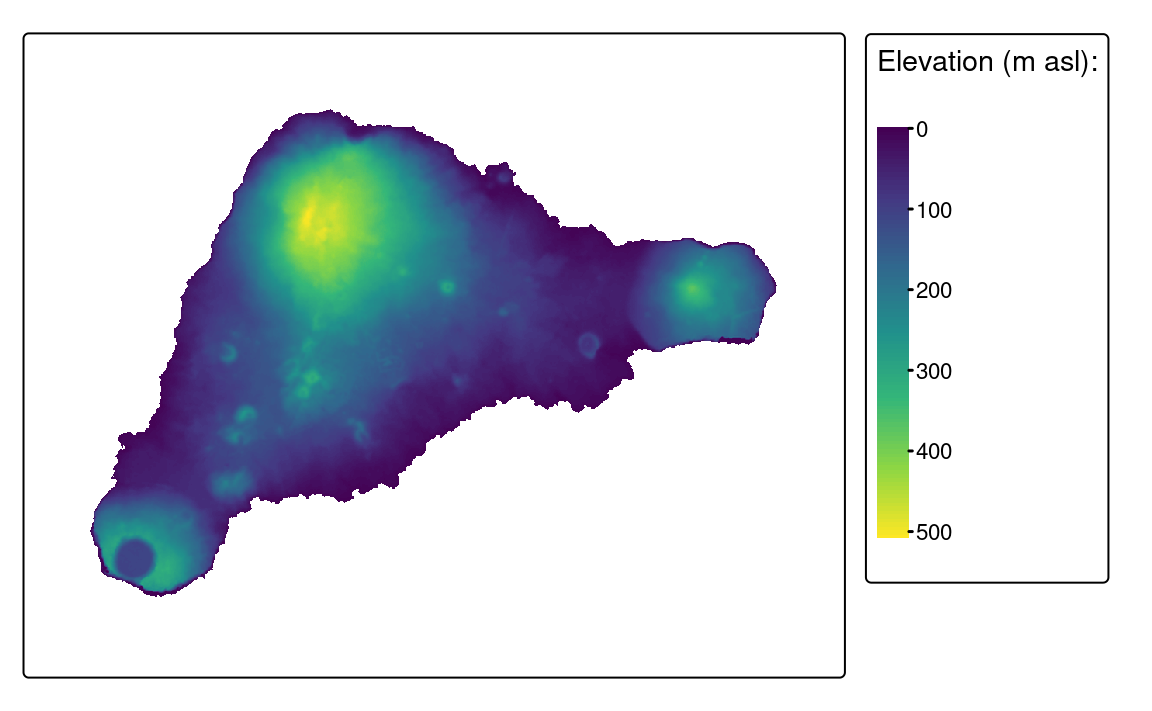
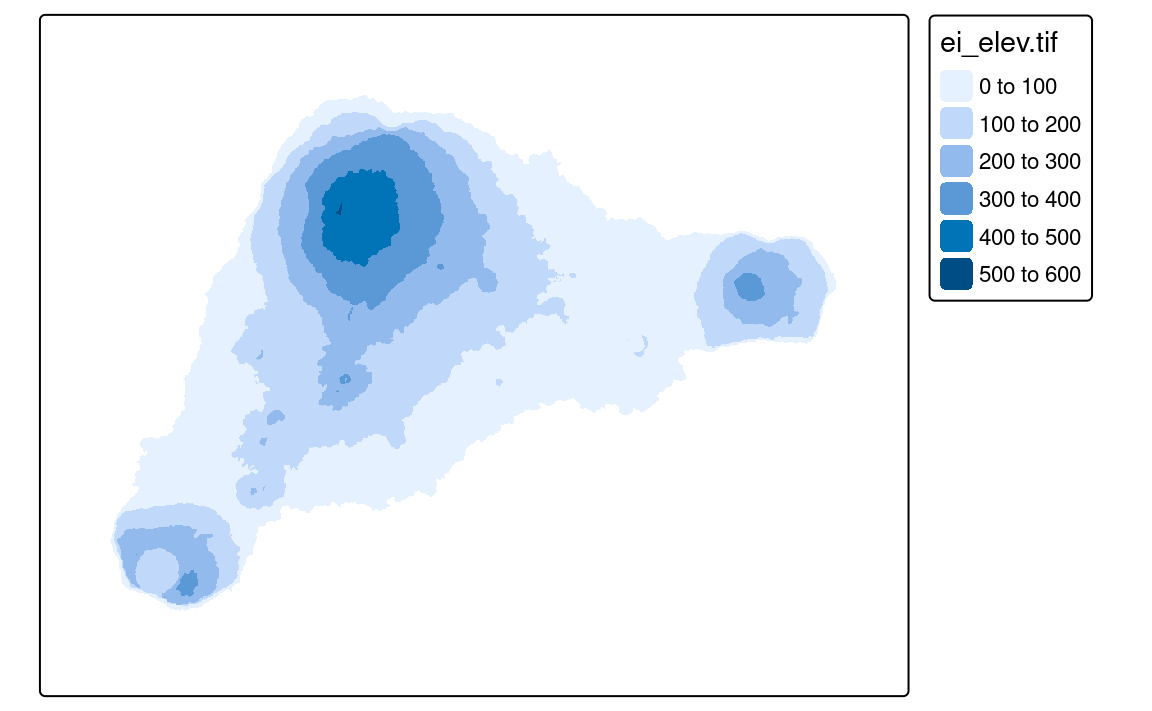
Deploy commit: cleans and updates a few parts b1c97d629e03a2010ea80d93bce5f0eef17c907c

Changed region(s): [[0.0312, 0.0, 0.9688, 0.8664], [0.0, 0.9283, 0.7812, 0.9902], [0.75, 0.8045, 0.9688, 0.8354]]

diff --git a/XX-layout.html b/XX-layout.html
@@ -346,15 +346,18 @@ gtag('config', 'G-ER2GMPEJNF', { 'anonymize_ip': true});
 <h2 id="toc-title">On this page</h2>
    
   <ul>
-<li>
-<a href="#sec-typography" id="toc-sec-typography" class="nav-link" data-scroll-target="#sec-typography"><span class="header-section-number">10.1</span> Typography</a>
+<li><a href="#colors-sec-lcolors" id="toc-colors-sec-lcolors" class="nav-link" data-scroll-target="#colors-sec-lcolors"><span class="header-section-number">10.1</span> Colors (#sec-lcolors)</a></li>
+  <li><a href="#frame-sec-lframe" id="toc-frame-sec-lframe" class="nav-link" data-scroll-target="#frame-sec-lframe"><span class="header-section-number">10.2</span> Frame (#sec-lframe)</a></li>
+  <li><a href="#margins-sec-lmargins" id="toc-margins-sec-lmargins" class="nav-link" data-scroll-target="#margins-sec-lmargins"><span class="header-section-number">10.3</span> Margins (#sec-lmargins)</a></li>
+  <li>
+<a href="#sec-ltypography" id="toc-sec-ltypography" class="nav-link" data-scroll-target="#sec-ltypography"><span class="header-section-number">10.4</span> Typography</a>
   <ul>
-<li><a href="#sec-fonts" id="toc-sec-fonts" class="nav-link" data-scroll-target="#sec-fonts"><span class="header-section-number">10.1.1</span> Font families and faces</a></li>
-  <li><a href="#sec-fonts-tmap" id="toc-sec-fonts-tmap" class="nav-link" data-scroll-target="#sec-fonts-tmap"><span class="header-section-number">10.1.2</span> Fonts available in <strong>tmap</strong></a></li>
-  <li><a href="#sec-fonts-on-maps" id="toc-sec-fonts-on-maps" class="nav-link" data-scroll-target="#sec-fonts-on-maps"><span class="header-section-number">10.1.3</span> Fonts on maps</a></li>
+<li><a href="#sec-fonts" id="toc-sec-fonts" class="nav-link" data-scroll-target="#sec-fonts"><span class="header-section-number">10.4.1</span> Font families and faces</a></li>
+  <li><a href="#sec-fonts-tmap" id="toc-sec-fonts-tmap" class="nav-link" data-scroll-target="#sec-fonts-tmap"><span class="header-section-number">10.4.2</span> Fonts available in <strong>tmap</strong></a></li>
+  <li><a href="#sec-fonts-on-maps" id="toc-sec-fonts-on-maps" class="nav-link" data-scroll-target="#sec-fonts-on-maps"><span class="header-section-number">10.4.3</span> Fonts on maps</a></li>
   </ul>
 </li>
-  <li><a href="#sec-layout-elements" id="toc-sec-layout-elements" class="nav-link" data-scroll-target="#sec-layout-elements"><span class="header-section-number">10.2</span> Layout elements</a></li>
+  <li><a href="#sec-llegend" id="toc-sec-llegend" class="nav-link" data-scroll-target="#sec-llegend"><span class="header-section-number">10.5</span> Legend</a></li>
   </ul><div class="toc-actions"><ul><li><a href="https://github.com/geocompx/tmap/edit/main/XX-layout.qmd" class="toc-action"><i class="bi bi-github"></i>Edit this page</a></li></ul></div></nav>
     </div>
 <!-- main -->
@@ -375,15 +378,22 @@ gtag('config', 'G-ER2GMPEJNF', { 'anonymize_ip': true});
   
 
 
-</header><section id="sec-typography" class="level2" data-number="10.1"><h2 data-number="10.1" class="anchored" data-anchor-id="sec-typography">
-<span class="header-section-number">10.1</span> Typography</h2>
+</header><!-- tm_layout --><!-- which features are the most important to explain? --><section id="colors-sec-lcolors" class="level2" data-number="10.1"><h2 data-number="10.1" class="anchored" data-anchor-id="colors-sec-lcolors">
+<span class="header-section-number">10.1</span> Colors (#sec-lcolors)</h2>
+<!-- e.g. background colors -->
+</section><section id="frame-sec-lframe" class="level2" data-number="10.2"><h2 data-number="10.2" class="anchored" data-anchor-id="frame-sec-lframe">
+<span class="header-section-number">10.2</span> Frame (#sec-lframe)</h2>
+</section><section id="margins-sec-lmargins" class="level2" data-number="10.3"><h2 data-number="10.3" class="anchored" data-anchor-id="margins-sec-lmargins">
+<span class="header-section-number">10.3</span> Margins (#sec-lmargins)</h2>
+</section><section id="sec-ltypography" class="level2" data-number="10.4"><h2 data-number="10.4" class="anchored" data-anchor-id="sec-ltypography">
+<span class="header-section-number">10.4</span> Typography</h2>
 <!-- Font faces and font families -->
-<p>The decision about the used fonts is often neglected when creating programmable plots and maps. Most often, the default fonts are used in these kinds of graphs. This, however, could be a missed opportunity. A lot of map information is expressed by text, including text labels (<a href="XX-layers.html#sec-text" class="quarto-xref"><span>Section 6.4</span></a>), legend labels, text in attribute layers (<a href="XX-attr-layers.html" class="quarto-xref"><span>Chapter 9</span></a>), or the map title (<a href="#sec-layout-elements" class="quarto-xref"><span>Section 10.2</span></a>). The used fonts impact the tone of the map <span class="citation" data-cites="guidero_typography_2017">(<a href="references.html#ref-guidero_typography_2017" role="doc-biblioref">Guidero 2017</a>)</span>, and their customization allows for a map to stand out from maps using default options.</p>
+<p>The decision about the used fonts is often neglected when creating programmable plots and maps. Most often, the default fonts are used in these kinds of graphs. This, however, could be a missed opportunity. A lot of map information is expressed by text, including text labels (<a href="XX-layers.html#sec-text" class="quarto-xref"><span>Section 6.4</span></a>), legend labels, text in attribute layers (<a href="XX-attr-layers.html" class="quarto-xref"><span>Chapter 9</span></a>), or the map title (<span class="quarto-unresolved-ref">?sec-layout-elements</span>). The used fonts impact the tone of the map <span class="citation" data-cites="guidero_typography_2017">(<a href="references.html#ref-guidero_typography_2017" role="doc-biblioref">Guidero 2017</a>)</span>, and their customization allows for a map to stand out from maps using default options.</p>
 <!-- role of font faces and font families: -->
 <!-- - highlight different levels/importance -->
 <p>As we mentioned above, many different map elements can be expressed or can use fonts. In theory, we are able to set different fonts to each of them. However, this could result in a confusing visual mix that would hinder our map information. Therefore, the decision on the used fonts should be taken after considering the main map message, expected map audience, other related graph styles, etc. In the following three sections, we explain font families and font faces, and give some overall tips on font selections, show how to define used fonts, and how to customize fonts on maps.</p>
-<section id="sec-fonts" class="level3" data-number="10.1.1"><h3 data-number="10.1.1" class="anchored" data-anchor-id="sec-fonts">
-<span class="header-section-number">10.1.1</span> Font families and faces</h3>
+<section id="sec-fonts" class="level3" data-number="10.4.1"><h3 data-number="10.4.1" class="anchored" data-anchor-id="sec-fonts">
+<span class="header-section-number">10.4.1</span> Font families and faces</h3>
 <div id="fig-fonts" class="quarto-layout-panel">
 <figure class="quarto-float quarto-float-fig figure"><div aria-describedby="fig-fonts-caption-0ceaefa1-69ba-4598-a22c-09a6ac19f8ca">
 <div class="quarto-layout-row">
@@ -418,8 +428,8 @@ Figure&nbsp;10.1: Basic font families, and font faces implemented in the tmap pa
 <p>Mixing the use of serif and sans serif fonts often works well for maps. However, a rule of thumb is not to mix more than two font families on one map. A sans serif font can be used to label cultural objects, while serif fonts to label physical features. Then, italics, for example, can be used to distinguish water areas. The role of bold font faces, together with increased font size, is to highlight the hierarchy of labels – larger, bold fonts indicate more prominent map features. Additionally, customizing the fonts’ colors can be helpful to distinguish different groups of map objects. <!-- cite - https://www.axismaps.com/guide/labeling --></p>
 <p>The decision on which fonts to use should also relates to the expected map look and feel. Each font family has a distinct personality (creates a “semantic effect”), which can affect how the map is perceived. <!-- references - https://gistbok.ucgis.org/bok-topics/typography --> Some fonts are more formal, some are less. Some fonts have a modern look, while others look more traditional. <!-- add examples --> Another important concern is personal taste or map branding. We should filter the decision about the used fonts based on our preferences or even our sense of beauty as it could create more personal and unique maps. We just need to remember about the readability of the fonts – they should not be too elaborate as it can hinder the main map message.</p>
 <!-- suggested fonts or references??? -->
-</section><section id="sec-fonts-tmap" class="level3" data-number="10.1.2"><h3 data-number="10.1.2" class="anchored" data-anchor-id="sec-fonts-tmap">
-<span class="header-section-number">10.1.2</span> Fonts available in <strong>tmap</strong>
+</section><section id="sec-fonts-tmap" class="level3" data-number="10.4.2"><h3 data-number="10.4.2" class="anchored" data-anchor-id="sec-fonts-tmap">
+<span class="header-section-number">10.4.2</span> Fonts available in <strong>tmap</strong>
 </h3>
 <p>Before we discuss how to set a font family and its face, it is important to highlight that a different set of fonts could exist for each operating system (and even each computer). Additionally, which fonts are available and how they are supported depends on the used <em>graphic device</em>. A graphic device is a place where a plot or map is rendered. The most commonly it is a some kind of a screen device, where we can see our plot or map directly after running the R code. Other graphic devices allow for saving plots or maps as files in various formats (e.g., <code>.png</code>, <code>.jpg</code>, <code>.pdf</code>). Therefore, it is possible to get different fonts on your map on the screen, and a (slightly) different one when saved to a file. Visit <code><a href="https://rdrr.io/r/grDevices/Devices.html">?Devices</a></code> or read the Graphic Devices chapter of <span class="citation" data-cites="peng2016exploratory">Peng (<a href="references.html#ref-peng2016exploratory" role="doc-biblioref">2016</a>)</span> to learn more about graphic devices.</p>
 <p>The <strong>tmap</strong> package has two mechanism to select a font family. The first one is by specifying on of three general font families: <code>"serif"</code>, <code>"sans"</code>, or <code>"monospace"</code>. It tries to match selected general font family with a font family existing on the operating system. <!-- https://github.com/r-lib/systemfonts#system-defaults --> For example, <code>"serif"</code> could the <code>"Times"</code> font family, <code>"sans"</code> – <code>"Helvetica"</code> or <code>"Arial"</code>, and <code>"monospace"</code> – <code>"Courier"</code> (<a href="#fig-fonts-1" class="quarto-xref">Figure&nbsp;<span>10.1 (a)</span></a>). The second mechanism allows to select a font family based on its name (e.g., <code>"Times"</code> or <code>"Palatino"</code>). Next, a member of the selected font families can be selected with one of the font faces: <code>"plain"</code>, <code>"italic"</code>, <code>"bold"</code>, and <code>"bold.italic"</code> (<a href="#fig-fonts-2" class="quarto-xref">Figure&nbsp;<span>10.1 (b)</span></a>).</p>
@@ -431,8 +441,8 @@ Figure&nbsp;10.1: Basic font families, and font faces implemented in the tmap pa
 </div>
 <p>Information on installing and debugging custom fonts can be found in <a href="https://yjunechoe.github.io/posts/2021-06-24-setting-up-and-debugging-custom-fonts/">a blog post</a> by June Choe and in the <strong>showtext</strong> package <span class="citation" data-cites="R-showtext">(<a href="references.html#ref-R-showtext" role="doc-biblioref">Qiu and See file AUTHORS for details. 2021</a>)</span> documentation.</p>
 <p>The next step is to either view or save the map. This also means that we need to carry over our fonts to the output window/file, which largely depends on the selected graphic device. In general, screen device or graphical raster output formats, such as PNG, JPEG, or TIFF, works well with custom fonts as they rasterize them during saving. In case of any problems with graphical raster outputs, it is possible to try alternative graphics devices implemented in the <strong>ragg</strong> package <span class="citation" data-cites="R-ragg">(<a href="references.html#ref-R-ragg" role="doc-biblioref">Pedersen and Shemanarev 2021</a>)</span>. On the other hand, graphical vector formats, such as PDF or SVG, could have some problems with saving maps containing custom fonts<a href="#fn1" class="footnote-ref" id="fnref1" role="doc-noteref"><sup>1</sup></a>. The PDF device in R, by default, adds metadata about the used fonts, but does not store them. When the PDF reader shows the document, it tries to locate the font on your computer, and use other fonts when the expected one does not exist. An alternative approach is called embedding, which adds a copy of each necessary font to the PDF file itself. Gladly, the creation of a PDF with proper fonts can be achieved in a few ways. Firstly, it could be worth trying some alternative graphic devices such as <code>cairo_pdf</code> or <code><a href="https://svglite.r-lib.org/reference/svglite.html">svglite::svglite</a></code>. The second option is to use the <strong>showtext</strong> package <span class="citation" data-cites="R-showtext">(<a href="references.html#ref-R-showtext" role="doc-biblioref">Qiu and See file AUTHORS for details. 2021</a>)</span>, which converts text into color-filled polygonal outlines for graphical vector formats. <!-- footnote: if/when the device argument is added to tmap_save, then mention saving to ragg/cairo_pdf --> Thirdly, the <strong>extrafont</strong> <span class="citation" data-cites="R-extrafont">(<a href="references.html#ref-R-extrafont" role="doc-biblioref">Chang 2014</a>)</span> package allows embedding the fonts in the PDF file, which makes PDFs properly displayed on computers that do not have the given font. <!-- ref to map_save!! --></p>
-</section><section id="sec-fonts-on-maps" class="level3" data-number="10.1.3"><h3 data-number="10.1.3" class="anchored" data-anchor-id="sec-fonts-on-maps">
-<span class="header-section-number">10.1.3</span> Fonts on maps</h3>
+</section><section id="sec-fonts-on-maps" class="level3" data-number="10.4.3"><h3 data-number="10.4.3" class="anchored" data-anchor-id="sec-fonts-on-maps">
+<span class="header-section-number">10.4.3</span> Fonts on maps</h3>
 <div class="cell" data-layout-align="center">
 <div class="sourceCode" id="cb2"><pre class="downlit sourceCode r code-with-copy"><code class="sourceCode R"><span><span class="kw"><a href="https://rdrr.io/r/base/library.html">library</a></span><span class="op">(</span><span class="va"><a href="https://github.com/r-tmap/tmap">tmap</a></span><span class="op">)</span></span>
 <span><span class="kw"><a href="https://rdrr.io/r/base/library.html">library</a></span><span class="op">(</span><span class="va"><a href="https://r-spatial.github.io/sf/">sf</a></span><span class="op">)</span></span>
@@ -493,8 +503,8 @@ Figure&nbsp;10.2: Examples of one font (font family and font face) used for all 
 </figcaption></figure>
 </div>
 <!-- The third way is to use a different *tmap style* - see section \@ref() for more details. -->
-</section></section><section id="sec-layout-elements" class="level2" data-number="10.2"><h2 data-number="10.2" class="anchored" data-anchor-id="sec-layout-elements">
-<span class="header-section-number">10.2</span> Layout elements</h2>
+</section></section><section id="sec-llegend" class="level2" data-number="10.5"><h2 data-number="10.5" class="anchored" data-anchor-id="sec-llegend">
+<span class="header-section-number">10.5</span> Legend</h2>
 
 
 <div id="refs" class="references csl-bib-body hanging-indent" data-entry-spacing="0" role="list" style="display: none">

diff --git a/XX-layers.html b/XX-layers.html
@@ -739,8 +739,7 @@ Figure&nbsp;6.4: Example of a map created with tm_lines().
 <p>Text labels are often an integral part of many maps. They can serve several functions, from naming features, indicating relations between them, or representing a given variable’s values. The main function for creating text labels is <code><a href="https://r-tmap.github.io/tmap/reference/tm_text.html">tm_text()</a></code>, which adds a label to each spatial feature (<a href="#fig-tmtext" class="quarto-xref">Figure&nbsp;<span>6.5</span></a>).</p>
 <div class="cell" data-layout-align="center">
 <div class="sourceCode" id="cb13"><pre class="downlit sourceCode r code-with-copy"><code class="sourceCode R"><span><span class="fu"><a href="https://r-tmap.github.io/tmap/reference/tm_shape.html">tm_shape</a></span><span class="op">(</span><span class="va">volcanos</span><span class="op">)</span> <span class="op">+</span></span>
-<span>  <span class="fu"><a href="https://r-tmap.github.io/tmap/reference/tm_text.html">tm_text</a></span><span class="op">(</span>text <span class="op">=</span> <span class="st">"name"</span>, size <span class="op">=</span> <span class="st">"elevation"</span><span class="op">)</span> <span class="op">+</span></span>
-<span>  <span class="fu"><a href="https://r-tmap.github.io/tmap/reference/tm_layout.html">tm_layout</a></span><span class="op">(</span>legend.outside <span class="op">=</span> <span class="cn">TRUE</span><span class="op">)</span></span></code><button title="Copy to Clipboard" class="code-copy-button"><i class="bi"></i></button></pre></div>
+<span>  <span class="fu"><a href="https://r-tmap.github.io/tmap/reference/tm_text.html">tm_text</a></span><span class="op">(</span>text <span class="op">=</span> <span class="st">"name"</span>, size <span class="op">=</span> <span class="st">"elevation"</span><span class="op">)</span></span></code><button title="Copy to Clipboard" class="code-copy-button"><i class="bi"></i></button></pre></div>
 <div class="cell-output-display">
 <div id="fig-tmtext" class="quarto-float quarto-figure quarto-figure-center anchored" data-fig-align="center">
 <figure class="quarto-float quarto-float-fig figure"><div aria-describedby="fig-tmtext-caption-0ceaefa1-69ba-4598-a22c-09a6ac19f8ca">
@@ -832,16 +831,15 @@ Figure&nbsp;6.5: Example of a map created with tm_text().
 <span><span class="va">ei_geomorphons</span> <span class="op">=</span> <span class="fu"><a href="https://r-spatial.github.io/stars/reference/read_stars.html">read_stars</a></span><span class="op">(</span><span class="st">"data/easter_island/ei_geomorphons.tif"</span><span class="op">)</span></span></code><button title="Copy to Clipboard" class="code-copy-button"><i class="bi"></i></button></pre></div>
 </div>
 <!-- Raster data intro -->
-<p>Visualization of raster data depends on the raster type (continuous or categorical), its resolution, and the number of layers. <a href="XX-options.html#fig-rasterdown" class="quarto-xref">Figure&nbsp;<span>16.1</span></a> shows two simple examples of continuous and categorical raster visualizations created with <code>tm_raster().</code> This function attempts to recognize the type of a given raster – when the input raster is continuous then the pretty style is used. However, the continuous scale (<code><a href="https://r-tmap.github.io/tmap/reference/tm_scale_continuous.html">tm_scale_continuous()</a></code>) often better represent phenomena that progressively vary in space (<a href="#fig-rastertype-1" class="quarto-xref">Figure&nbsp;<span>6.6 (a)</span></a>).</p>
+<p>Visualization of raster data depends on the raster type (continuous or categorical), its resolution, and the number of layers. <a href="XX-options.html#fig-rasterdown" class="quarto-xref">Figure&nbsp;<span>16.1</span></a> shows two simple examples of continuous and categorical raster visualizations created with <code>tm_raster().</code> This function attempts to recognize the type of a given raster – when the input raster is continuous then the pretty style is used (<a href="#fig-rastertype-1" class="quarto-xref">Figure&nbsp;<span>6.6 (a)</span></a>). <!-- However, the continuous scale (`tm_scale_continuous()`) often better represent phenomena that progressively vary in space  --></p>
 <div class="cell" data-layout-align="center">
 <div class="sourceCode" id="cb18"><pre class="downlit sourceCode r code-with-copy"><code class="sourceCode R"><span><span class="fu"><a href="https://r-tmap.github.io/tmap/reference/tm_shape.html">tm_shape</a></span><span class="op">(</span><span class="va">ei_elev</span><span class="op">)</span> <span class="op">+</span></span>
-<span>  <span class="fu"><a href="https://r-tmap.github.io/tmap/reference/tm_raster.html">tm_raster</a></span><span class="op">(</span>col.scale <span class="op">=</span> <span class="fu"><a href="https://r-tmap.github.io/tmap/reference/tm_scale_continuous.html">tm_scale_continuous</a></span><span class="op">(</span>values <span class="op">=</span> <span class="st">"viridis"</span><span class="op">)</span>,</span>
-<span>            col.legend <span class="op">=</span> <span class="fu"><a href="https://r-tmap.github.io/tmap/reference/tm_legend.html">tm_legend</a></span><span class="op">(</span>title <span class="op">=</span> <span class="st">"Elevation (m asl):"</span><span class="op">)</span><span class="op">)</span></span></code><button title="Copy to Clipboard" class="code-copy-button"><i class="bi"></i></button></pre></div>
+<span>  <span class="fu"><a href="https://r-tmap.github.io/tmap/reference/tm_raster.html">tm_raster</a></span><span class="op">(</span><span class="op">)</span></span></code><button title="Copy to Clipboard" class="code-copy-button"><i class="bi"></i></button></pre></div>
 </div>
 <p>On the other hand, when the given raster is categorical, then <code><a href="https://r-tmap.github.io/tmap/reference/tm_raster.html">tm_raster()</a></code> uses <code><a href="https://r-tmap.github.io/tmap/reference/tm_scale_categorical.html">tm_scale_categorical()</a></code> automatically (<a href="#fig-rastertype-2" class="quarto-xref">Figure&nbsp;<span>6.6 (b)</span></a>). We can also adjust the legend title, used colors, and many more, in a similar fashion as in the previously mentioned layers.</p>
 <div class="cell" data-layout-align="center">
 <div class="sourceCode" id="cb19"><pre class="downlit sourceCode r code-with-copy"><code class="sourceCode R"><span><span class="fu"><a href="https://r-tmap.github.io/tmap/reference/tm_shape.html">tm_shape</a></span><span class="op">(</span><span class="va">ei_geomorphons</span><span class="op">)</span> <span class="op">+</span></span>
-<span>  <span class="fu"><a href="https://r-tmap.github.io/tmap/reference/tm_raster.html">tm_raster</a></span><span class="op">(</span>col.legend <span class="op">=</span> <span class="fu"><a href="https://r-tmap.github.io/tmap/reference/tm_legend.html">tm_legend</a></span><span class="op">(</span>title <span class="op">=</span> <span class="st">"Geomorphons:"</span><span class="op">)</span><span class="op">)</span></span></code><button title="Copy to Clipboard" class="code-copy-button"><i class="bi"></i></button></pre></div>
+<span>  <span class="fu"><a href="https://r-tmap.github.io/tmap/reference/tm_raster.html">tm_raster</a></span><span class="op">(</span><span class="op">)</span></span></code><button title="Copy to Clipboard" class="code-copy-button"><i class="bi"></i></button></pre></div>
 </div>
 <div class="cell" data-layout-nrow="1" data-layout-align="center">
 <div id="fig-rastertype" class="quarto-layout-panel">

diff --git a/XX-options.html b/XX-options.html
@@ -315,8 +315,20 @@ gtag('config', 'G-ER2GMPEJNF', { 'anonymize_ip': true});
 </div>
 </nav><div id="quarto-sidebar-glass" class="quarto-sidebar-collapse-item" data-bs-toggle="collapse" data-bs-target=".quarto-sidebar-collapse-item"></div>
 <!-- margin-sidebar -->
-    <div id="quarto-margin-sidebar" class="sidebar margin-sidebar zindex-bottom">
-        
+    <div id="quarto-margin-sidebar" class="sidebar margin-sidebar">
+        <nav id="TOC" role="doc-toc" class="toc-active"><h2 class="anchored">First Edition</h2>
+  <ul>
+<li><a href="https://geocompx.org/" class="nav-link active" data-scroll-target="https\://geocompx.org/">Visit the geocompx website 🌐</a></li>
+    <li><a href="https://github.com/geocompx/tmap/issues" class="nav-link" data-scroll-target="https\://github.com/geocompx/tmap/issues">Open an issue ❔</a></li>
+    <li><a href="https://discord.gg/PMztXYgNxp" class="nav-link" data-scroll-target="https\://discord.gg/PMztXYgNxp">Chat on Discord 📣</a></li>
+  </ul>
+<hr>
+<h2 id="toc-title">On this page</h2>
+   
+  <ul>
+<li><a href="#raster-resolution" id="toc-raster-resolution" class="nav-link" data-scroll-target="#raster-resolution"><span class="header-section-number">16.1</span> Raster resolution</a></li>
+  <li><a href="#resetting-the-options" id="toc-resetting-the-options" class="nav-link" data-scroll-target="#resetting-the-options"><span class="header-section-number">16.2</span> Resetting the options</a></li>
+  </ul><div class="toc-actions"><ul><li><a href="https://github.com/geocompx/tmap/edit/main/XX-options.qmd" class="toc-action"><i class="bi bi-github"></i>Edit this page</a></li></ul></div></nav>
     </div>
 <!-- main -->
 <main class="content" id="quarto-document-content"><header id="title-block-header" class="quarto-title-block default"><nav class="quarto-page-breadcrumbs quarto-title-breadcrumbs d-none d-lg-block" aria-label="breadcrumb"><ol class="breadcrumb"><li class="breadcrumb-item"><a href="./XX-options.html">Advanced topics</a></li><li class="breadcrumb-item"><a href="./XX-options.html"><span class="chapter-number">16</span>&nbsp; <span class="chapter-title">tmap options</span></a></li></ol></nav><div class="quarto-title">
@@ -336,11 +348,13 @@ gtag('config', 'G-ER2GMPEJNF', { 'anonymize_ip': true});
   
 
 
-</header><div class="cell" data-layout-align="center">
+</header><!-- tmap_options --><div class="cell" data-layout-align="center">
 <div class="sourceCode" id="cb1"><pre class="downlit sourceCode r code-with-copy"><code class="sourceCode R"><span><span class="kw"><a href="https://rdrr.io/r/base/library.html">library</a></span><span class="op">(</span><span class="va"><a href="https://github.com/r-tmap/tmap">tmap</a></span><span class="op">)</span></span>
 <span><span class="kw"><a href="https://rdrr.io/r/base/library.html">library</a></span><span class="op">(</span><span class="va"><a href="https://r-spatial.github.io/stars/">stars</a></span><span class="op">)</span></span>
 <span><span class="va">worldelevation</span> <span class="op">=</span> <span class="fu"><a href="https://r-spatial.github.io/stars/reference/read_stars.html">read_stars</a></span><span class="op">(</span><span class="st">"data/worldelevation.tif"</span><span class="op">)</span></span></code><button title="Copy to Clipboard" class="code-copy-button"><i class="bi"></i></button></pre></div>
 </div>
+<section id="raster-resolution" class="level2" data-number="16.1"><h2 data-number="16.1" class="anchored" data-anchor-id="raster-resolution">
+<span class="header-section-number">16.1</span> Raster resolution</h2>
 <!-- 2/resolution -->
 <p>Raster data is represented by a grid of cells (<a href="XX-geodata.html#sec-raster-data-model" class="quarto-xref"><span>Section 2.2.2</span></a>), and the number of cells impacts the time to render a map. Rasters with hundreds of cells will be plotted quickly, while rasters with hundreds of millions or billions of cells will take a lot of time (and RAM) to be shown. <!-- ... some info about screen resolution --> Therefore, the <strong>tmap</strong> package downsamples large rasters by default to be below 10,000,000 cells in the plot mode and 1,000,000 cells in the view mode. <!-- c(plot = 1e7, view = 1e6) --> This values can be adjusted with the <code>raster.max_cells</code> argument of <code><a href="https://r-tmap.github.io/tmap/reference/tmap_options.html">tmap_options()</a></code>, which expects a named vector with two elements - <code>plot</code> and <code>view</code> (<a href="#fig-rasterdown" class="quarto-xref">Figure&nbsp;<span>16.1</span></a>). <!-- btw - downsampling cont vs cat --> <!-- when and why --></p>
 <div class="cell" data-layout-align="center">
@@ -358,15 +372,15 @@ Figure&nbsp;16.1: A raster map with the decreased resolution
 </div>
 </div>
 </div>
-<p>Any <strong>tmap</strong> options can be reset (set to default) with <code><a href="https://r-tmap.github.io/tmap/reference/tmap_options.html">tmap_options_reset()</a></code> (We explain <code><a href="https://r-tmap.github.io/tmap/reference/tmap_options.html">tmap_options()</a></code> in details in <a href="#sec-options" class="quarto-xref"><span>Chapter 16</span></a>).</p>
+</section><section id="resetting-the-options" class="level2" data-number="16.2"><h2 data-number="16.2" class="anchored" data-anchor-id="resetting-the-options">
+<span class="header-section-number">16.2</span> Resetting the options</h2>
+<p>Any <strong>tmap</strong> options can be reset (set to default) with <code><a href="https://r-tmap.github.io/tmap/reference/tmap_options.html">tmap_options_reset()</a></code>.</p>
 <div class="cell" data-layout-align="center">
 <div class="sourceCode" id="cb3"><pre class="downlit sourceCode r code-with-copy"><code class="sourceCode R"><span><span class="fu"><a href="https://r-tmap.github.io/tmap/reference/tmap_options.html">tmap_options_reset</a></span><span class="op">(</span><span class="op">)</span></span></code><button title="Copy to Clipboard" class="code-copy-button"><i class="bi"></i></button></pre></div>
 </div>
-<!-- is there anything important about tm_shape arguments that still is missing for the above text?? -->
 
 
-
-</main><!-- /main --><script id="quarto-html-after-body" type="application/javascript">
+</section></main><!-- /main --><script id="quarto-html-after-body" type="application/javascript">
 window.document.addEventListener("DOMContentLoaded", function (event) {
   const toggleBodyColorMode = (bsSheetEl) => {
     const mode = bsSheetEl.getAttribute("data-mode");
@@ -803,7 +817,7 @@ window.document.addEventListener("DOMContentLoaded", function (event) {
     </div>   
     <div class="nav-footer-center">
 <p>Elegant and informative maps with <strong>tmap</strong> by Martijn Tennekes and Jakub Nowosad.</p>
-<div class="toc-actions"><ul><li><a href="https://github.com/geocompx/tmap/edit/main/XX-options.qmd" class="toc-action"><i class="bi bi-github"></i>Edit this page</a></li></ul></div></div>
+<div class="toc-actions d-sm-block d-md-none"><ul><li><a href="https://github.com/geocompx/tmap/edit/main/XX-options.qmd" class="toc-action"><i class="bi bi-github"></i>Edit this page</a></li></ul></div></div>
     <div class="nav-footer-right">
       &nbsp;
     </div>

diff --git a/XX-visual-variables.html b/XX-visual-variables.html
@@ -654,7 +654,7 @@ Figure&nbsp;7.6: An example of a categorical map with manually selected colors.
 </div>
 </div>
 <p> Finally, visualized colors can be additionally modified. It includes setting the <code>col_alpha</code> and <code>fill_alpha</code> arguments that represents the transparency of the used colors. By default, the colors are not transparent at all as the value of <code>col_alpha</code> and <code>fill_alpha</code> is 1. However, we can decrease this value to 0 – a total transparency. The <code>col_alpha</code>/ <code>fill_alpha</code> argument is useful in two ways: one – it allows us to see-through some large objects (e.g., some points below the polygons or a hillshade map behind the colored raster of elevation), second – it makes colors more subtle.</p>
-<!-- idea: add bivariate/trivariate schemes (if/when implemented in tmap) -->
+<!-- idea: add bivariate/trivariate scheme -->
 <!-- add ord, cyc, biv -->
 <!-- alpha figure? -->
 <!-- color to highlight?? -->
@@ -821,7 +821,7 @@ Figure&nbsp;7.9: Example of a map where text sizes represent elevations of the v
 <span>             shape.scale <span class="op">=</span> <span class="fu">tm_scale</span><span class="op">(</span>values <span class="op">=</span> <span class="va">my_icons</span><span class="op">)</span><span class="op">)</span></span></code><button title="Copy to Clipboard" class="code-copy-button"><i class="bi"></i></button></pre></div>
 </div>
 <div class="cell" data-layout-align="center" data-layout-row="4">
-<div id="fig-tmsymshape" class="cell quarto-float quarto-figure quarto-figure-center anchored" data-layout-align="center" data-layout-row="4">
+<div id="fig-tmsymshape" class="cell quarto-float quarto-figure quarto-figure-center anchored" data-layout-row="4" data-layout-align="center">
 <figure class="quarto-float quarto-float-fig figure"><div aria-describedby="fig-tmsymshape-caption-0ceaefa1-69ba-4598-a22c-09a6ac19f8ca">
 <div class="cell-output-display">
 <div id="fig-tmsymshape-1" class="quarto-float quarto-figure quarto-figure-center anchored" data-fig-align="center">
@@ -932,7 +932,13 @@ Figure&nbsp;7.12: A map using two visual variables, color, and size (line width)
 </div>
 </div>
 </div>
-<!-- more about the .free arguments -->
+<div class="cell" data-layout-align="center">
+<div class="sourceCode" id="cb24"><pre class="downlit sourceCode r code-with-copy"><code class="sourceCode R"><span><span class="fu">tm_shape</span><span class="op">(</span><span class="va">ei_points</span><span class="op">)</span> <span class="op">+</span></span>
+<span>  <span class="fu">tm_symbols</span><span class="op">(</span>fill <span class="op">=</span> <span class="st">"elevation"</span>,</span>
+<span>             col <span class="op">=</span> <span class="st">"elevation"</span>,</span>
+<span>             col.scale <span class="op">=</span> <span class="fu">tm_scale</span><span class="op">(</span>values <span class="op">=</span> <span class="st">"reds"</span><span class="op">)</span>,</span>
+<span>             col.legend <span class="op">=</span> <span class="fu">tm_legend_combine</span><span class="op">(</span><span class="st">"fill"</span><span class="op">)</span><span class="op">)</span></span></code><button title="Copy to Clipboard" class="code-copy-button"><i class="bi"></i></button></pre></div>
+</div>
 
 
 <div id="refs" class="references csl-bib-body hanging-indent" data-entry-spacing="0" role="list" style="display: none">

diff --git a/index.html b/index.html
@@ -5,7 +5,7 @@
 <meta name="generator" content="quarto-1.5.57">
 <meta name="viewport" content="width=device-width, initial-scale=1.0, user-scalable=yes">
 <meta name="author" content="Martijn Tennekes and Jakub Nowosad">
-<meta name="dcterms.date" content="2025-01-15">
+<meta name="dcterms.date" content="2025-01-16">
 <meta name="description" content="This book teaches how to make elegant and informative maps with the R package tmap.">
 <title>Elegant and informative maps with tmap</title>
 <style>
@@ -329,7 +329,7 @@ gtag('config', 'G-ER2GMPEJNF', { 'anonymize_ip': true});
     <div>
     <div class="quarto-title-meta-heading">Published</div>
     <div class="quarto-title-meta-contents">
-      <p class="date">2025-01-15</p>
+      <p class="date">2025-01-16</p>
     </div>
   </div>
   
@@ -349,7 +349,7 @@ gtag('config', 'G-ER2GMPEJNF', { 'anonymize_ip': true});
 </ul></section><section id="additional-information" class="level2 unnumbered"><h2 class="unnumbered anchored" data-anchor-id="additional-information">Additional information</h2>
 <p><a rel="license" href="http://creativecommons.org/licenses/by-nc-nd/4.0/"><img alt="Creative Commons License" style="border-width:0" src="https://i.creativecommons.org/l/by-nc-nd/4.0/88x31.png"></a><br>This work is licensed under a <a rel="license" href="http://creativecommons.org/licenses/by-nc-nd/4.0/">Creative Commons Attribution-NonCommercial-NoDerivatives 4.0 International License</a>.</p>
 <p><a rel="license" href="https://creativecommons.org/publicdomain/zero/1.0/"><img alt="Creative Commons License" style="border-width:0" src="https://licensebuttons.net/l/zero/1.0/88x31.png"></a><br>The code samples in this book are licensed under <a rel="license" href="https://creativecommons.org/publicdomain/zero/1.0/">Creative Commons CC0 1.0 Universal (CC0 1.0)</a>.</p>
-<p>This version of the book was built on GH Actions on 2025-01-15.</p>
+<p>This version of the book was built on GH Actions on 2025-01-16.</p>
 
 
 </section></section></main><!-- /main --><script id="quarto-html-after-body" type="application/javascript">

diff --git a/XX-attr-layers.html b/XX-attr-layers.html
@@ -624,7 +624,7 @@ Figure&nbsp;9.4: A map with placeholders for text annotations.
 </div>
 </div>
 </div>
-<p>The first argument of <code><a href="https://r-tmap.github.io/tmap/reference/tm_credits.html">tm_credits()</a></code> is the text, which can be spread over multiple lines with the line break symbol <code>\n</code>. When the created map has several facets (<a href="XX-small-multiples.html" class="quarto-xref"><span>Chapter 12</span></a>), it is also possible to provide each facet a different text. In that case, a vector of characters is expected, where you can use <code>""</code> to omit the credits for specific facets. Text annotations can also be further customized, by changing their sizes (<code>size</code>), colors (<code>color</code>), positions, and fonts (<a href="XX-layout.html#sec-fonts-on-maps" class="quarto-xref"><span>Section 10.1.3</span></a>).</p>
+<p>The first argument of <code><a href="https://r-tmap.github.io/tmap/reference/tm_credits.html">tm_credits()</a></code> is the text, which can be spread over multiple lines with the line break symbol <code>\n</code>. When the created map has several facets (<a href="XX-small-multiples.html" class="quarto-xref"><span>Chapter 12</span></a>), it is also possible to provide each facet a different text. In that case, a vector of characters is expected, where you can use <code>""</code> to omit the credits for specific facets. Text annotations can also be further customized, by changing their sizes (<code>size</code>), colors (<code>color</code>), positions, and fonts (<a href="XX-layout.html#sec-fonts-on-maps" class="quarto-xref"><span>Section 10.4.3</span></a>).</p>
 </section><section id="sec-logo" class="level2" data-number="9.5"><h2 data-number="9.5" class="anchored" data-anchor-id="sec-logo">
 <span class="header-section-number">9.5</span> Logo</h2>
 <p>Logos on maps can serve a similar purpose as text annotation or accompany them. They can represent your affiliation, funding institution, data sources logos, etc.</p>

diff --git a/XX-save.html b/XX-save.html
@@ -411,7 +411,7 @@ gtag('config', 'G-ER2GMPEJNF', { 'anonymize_ip': true});
 <li id="fn1"><p>Standard R approach of saving graphic files by opening a graphic device, e.g., <code><a href="https://rdrr.io/r/grDevices/png.html">png()</a></code>, plotting the data, and then closing the device with <code><a href="https://rdrr.io/r/grDevices/dev.html">dev.off()</a></code> also works.<a href="#fnref1" class="footnote-back" role="doc-backlink">↩</a></p></li>
 <li id="fn2"><p>In fact, one argument is enough – if you just provide a <strong>tmap</strong> object, then it will be saved to a <code>tmap01</code> file with some default format.<a href="#fnref2" class="footnote-back" role="doc-backlink">↩</a></p></li>
 <li id="fn3"><p>You can even specify just one of <code>width</code> or <code>height</code>, and the value of the second one will be calculated using the formula <code>asp = width / height</code>.<a href="#fnref3" class="footnote-back" role="doc-backlink">↩</a></p></li>
-<li id="fn4"><p>Short discussion about graphic devices can be found in section <a href="XX-layout.html#sec-fonts-tmap" class="quarto-xref"><span>Section 10.1.2</span></a>.<a href="#fnref4" class="footnote-back" role="doc-backlink">↩</a></p></li>
+<li id="fn4"><p>Short discussion about graphic devices can be found in section <a href="XX-layout.html#sec-fonts-tmap" class="quarto-xref"><span>Section 10.4.2</span></a>.<a href="#fnref4" class="footnote-back" role="doc-backlink">↩</a></p></li>
 </ol></section></main><!-- /main --><script id="quarto-html-after-body" type="application/javascript">
 window.document.addEventListener("DOMContentLoaded", function (event) {
   const toggleBodyColorMode = (bsSheetEl) => {
